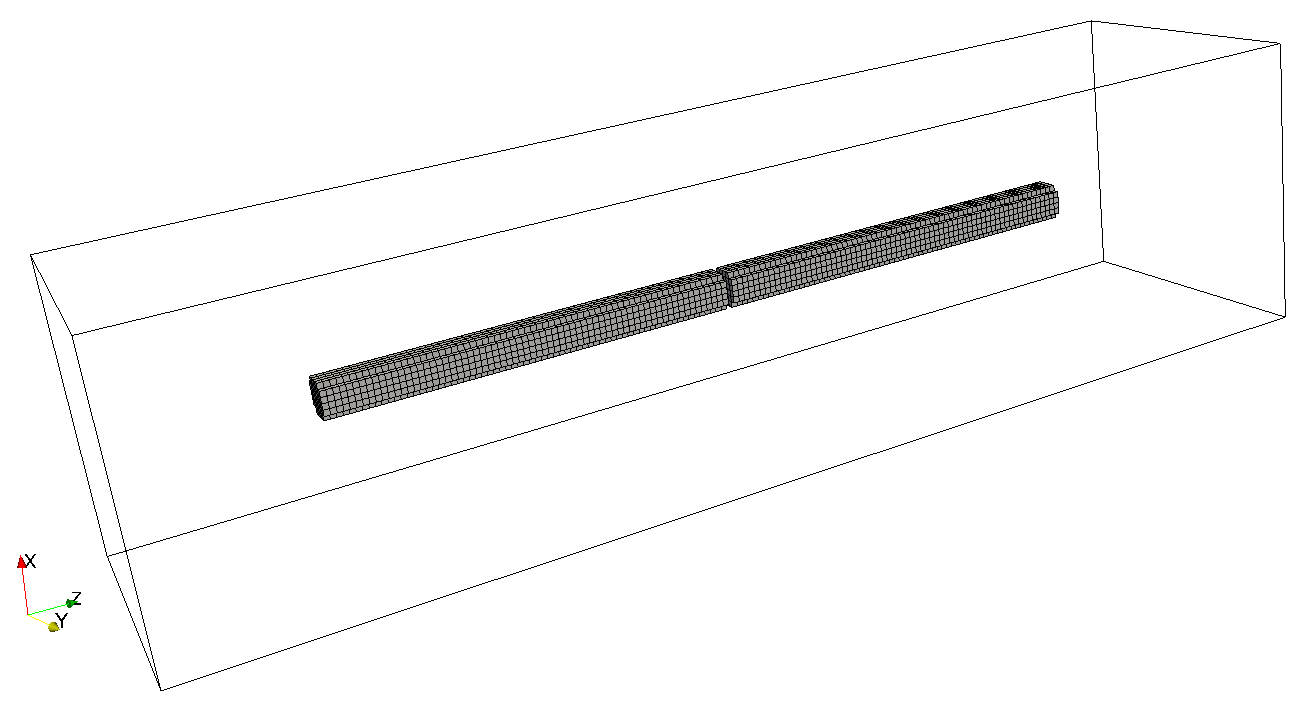
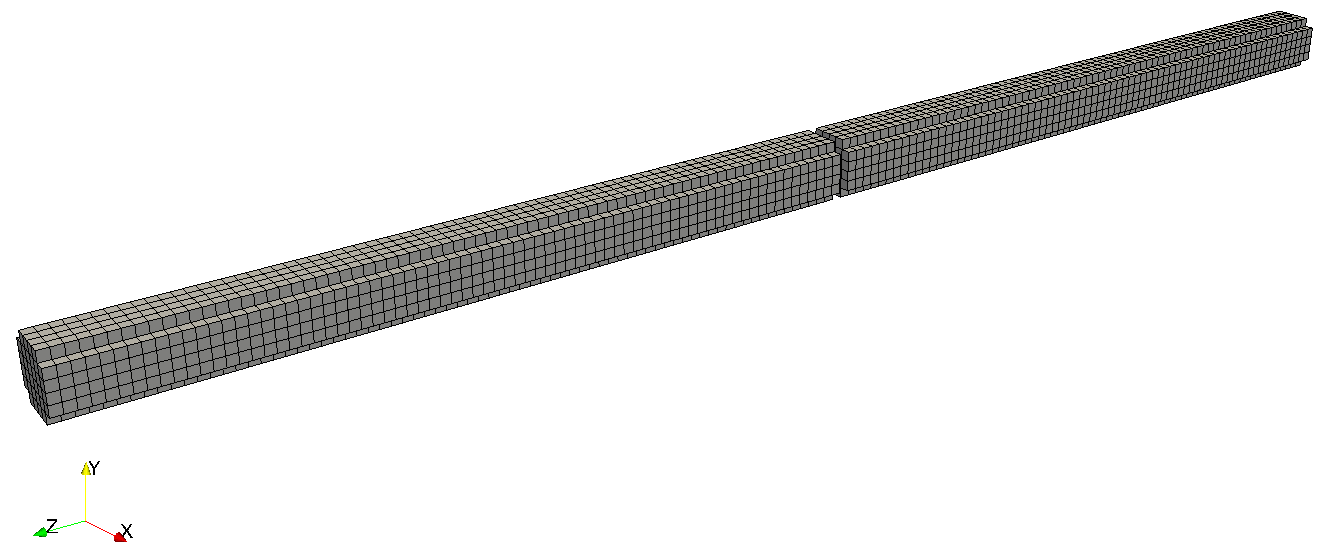
Work on wire dipole example.

diff --git a/docs/source/examples_antennas.rst b/docs/source/examples_antennas.rst
@@ -1,6 +1,6 @@
-********
-Antennas
-********
+**************
+Antenna models
+**************
 
 This section provides some example models of antennas. Each example comes with an input file which you can download and run.
 
@@ -9,7 +9,7 @@ Wire dipole antenna model
 
 :download:`antenna_wire_dipole_fs.in <../../user_models/antenna_wire_dipole_fs.in>`
 
-This example demonstrates a model of a half-wavelength wire dipole antenna in free space. The length of the dipole is 136mm with a diameter of 6mm, and a 1mm gap between the arms.
+This example demonstrates a model of a half-wavelength wire dipole antenna in free space. The length of the dipole is 150mm with a diameter of 6mm, and a 1mm gap between the arms.
 
 .. literalinclude:: ../../user_models/antenna_wire_dipole_fs.in
     :language: none
@@ -20,7 +20,7 @@ This example demonstrates a model of a half-wavelength wire dipole antenna in fr
 
     FDTD geometry mesh showing a wire dipole antenna model.
 
-The antenna is fed using the ``#tranmission_line`` command. The one-dimensional transmission line model virtually attaches to the dipole at the gap between the arms. The antenna has an input impedance :math:`Z_0` of 73 ohms specified in the ``#tranmission_line`` command. The transmission line uses a Gaussian waveform with a centre frequency of 1.5~GHz.
+The antenna is fed using the ``#tranmission_line`` command. The one-dimensional transmission line model virtually attaches to the dipole at the gap between the arms. The antenna has an input impedance :math:`Z_0` of 73 Ohms specified in the ``#tranmission_line`` command. The transmission line uses a Gaussian waveform with a centre frequency of 1GHz.
 
 
 Bowtie antenna model

diff --git a/docs/source/examples_simple_2D.rst b/docs/source/examples_simple_2D.rst
@@ -1,6 +1,6 @@
-*********************
-Introductary/basic 2D
-*********************
+****************************
+Introductary/basic 2D models
+****************************
 
 This section provides some general example models in 2D that demonstrate how to use certain features of gprMax. Each example comes with an input file which you can download and run.
 

diff --git a/docs/source/examples_advanced.rst b/docs/source/examples_advanced.rst
@@ -1,6 +1,6 @@
-**************
-Advanced usage
-**************
+******************
+Advanced modelling
+******************
 
 This section provides example models of some of the more advanced features of gprMax. Each example comes with an input file which you can download and run.
 

diff --git a/docs/source/index.rst b/docs/source/index.rst
@@ -34,7 +34,7 @@ gprMax User Guide
 
 .. toctree::
     :maxdepth: 2
-    :caption: Example models
+    :caption: Examples
 
     examples_simple_2D
     examples_antennas
